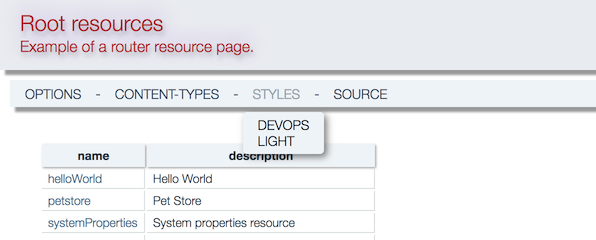
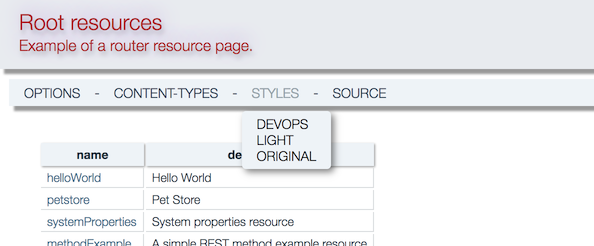
Add 'original' style.

Changed region(s): [[0.0, 0.35, 1.0, 1.0], [0.0, 0.2625, 1.0, 0.3208], [0.0303, 0.0583, 0.4242, 0.2333]]

diff --git a/juneau-rest/src/main/resources/org/apache/juneau/rest/styles/original.css b/juneau-rest/src/main/resources/org/apache/juneau/rest/styles/original.css
@@ -36,11 +36,12 @@ body {
 	);
 	background-repeat: no-repeat;
 	background-attachment: fixed;
-	margin: 20px;
 	font-family: sans-serif;
 	font-size: 12px;
 	color: rgb(44, 69, 87);
 	height: 100%;
+	margin: 0px;
+	padding: 0px;
 }
 
 p {
@@ -50,6 +51,12 @@ p {
 
 p.links {
 	margin-left: 10px;
+}
+
+.link {
+	text-decoration: underline;
+	cursor: pointer;
+	color: -webkit-link;
 }
 
 th, .header {
@@ -119,6 +126,7 @@ h3.title {
     font-size:1.5em;
 	color: rgb(44,69,87);
 	margin-bottom: 10px;
+	margin-right: 40px;
 	padding: 5px 30px;
 	border-radius: 15px;
 	text-decoration: none;
@@ -139,3 +147,62 @@ h5.description {
 .row {display:table-row;}
 .cell {display:table-cell;}
 .monospace {font-family:monospace;}
+
+/************************************************************************************/
+/**  Pop-ups                                                                       **/
+/************************************************************************************/
+
+.popup-content {
+	display: none;
+	position: absolute;
+	background-color: #eef3f7;
+	white-space: nowrap;
+	padding: 5px;
+	box-shadow: 3px 3px 10px rgba(0, 0, 0, 0.5);
+	z-index: 1;
+	margin-top: 10px;
+	border-radius: 4px;
+}
+
+.popup-content * {
+	color: black;
+	font-size: 10pt;
+}
+
+.popup-content a:hover {
+	color: #94A3AB;
+}
+
+
+.popup-show {display:block;}
+
+/************************************************************************************/
+/**  Sections                                                                      **/
+/************************************************************************************/
+
+header {
+	margin: 20px
+}
+nav {
+	margin: 20px;	
+}
+section {
+	display: table;
+	width: 100%;
+	margin: 20px;
+}
+article {
+	display: table-cell;
+}
+aside {
+	display: table-cell;
+	vertical-align: top;
+	padding: 20px 20px;
+}
+footer { 
+	padding: 10px 20px;
+	width: 100%;
+	bottom: 0;
+	position: fixed;
+	background-color: #e8ebef;
+}

diff --git a/juneau-core/src/main/javadoc/overview.html b/juneau-core/src/main/javadoc/overview.html
@@ -6866,6 +6866,8 @@
 				<br><img src='doc-files/ReleaseNotes_631_LightStyle.png'>
 				<br>Compared with previous 'devops':
 				<br><img src='doc-files/ReleaseNotes_631_DevopsStyle.png'>
+				<br>For those nolstalgic for old times, there's also 'original':
+				<br><img src='doc-files/ReleaseNotes_631_OriginalStyle.png'>
 			<li>
 				Improvements made to the {@link org.apache.juneau.rest.widget.Widget} API.
 				<ul>

diff --git a/juneau-examples-rest/src/main/java/org/apache/juneau/examples/rest/RootResources.java b/juneau-examples-rest/src/main/java/org/apache/juneau/examples/rest/RootResources.java
@@ -41,8 +41,8 @@ import org.apache.juneau.rest.widget.*;
 			+ "<div style='max-width:400px' class='text'>"
 			+ "	<p>This is an example of a 'router' page that serves as a jumping-off point to child resources.</p>"
 			+ "	<p>Resources can be nested arbitrarily deep through router pages.</p>"
-			+ "	<p>Note the <span class='link'>OPTIONS</span> link provided that lets you see the generated swagger doc for this page.</p>"
-			+ "	<p>Also note the <span class='link'>SOURCE</span> link on these pages to view the source code for the page.</p>"
+			+ "	<p>Note the <span class='link'>options</span> link provided that lets you see the generated swagger doc for this page.</p>"
+			+ "	<p>Also note the <span class='link'>sources</span> link on these pages to view the source code for the page.</p>"
 			+ "	<p>All content on pages in the UI are serialized POJOs.  In this case, it's a serialized array of beans with 2 properties, 'name' and 'description'.</p>"
 			+ "	<p>Other features (such as this aside) are added through annotations.</p>"
 			+ "</div>",

diff --git a/juneau-rest/src/main/java/org/apache/juneau/rest/widget/StyleMenuItem.java b/juneau-rest/src/main/java/org/apache/juneau/rest/widget/StyleMenuItem.java
@@ -40,7 +40,7 @@ import org.apache.juneau.rest.*;
  */
 public class StyleMenuItem extends MenuItemWidget {
 
-	private static final String[] BUILT_IN_STYLES = {"devops", "light"};
+	private static final String[] BUILT_IN_STYLES = {"devops", "light", "original"};
 
 	/**
 	 * Returns <js>"styleMenuItem"</js>.
